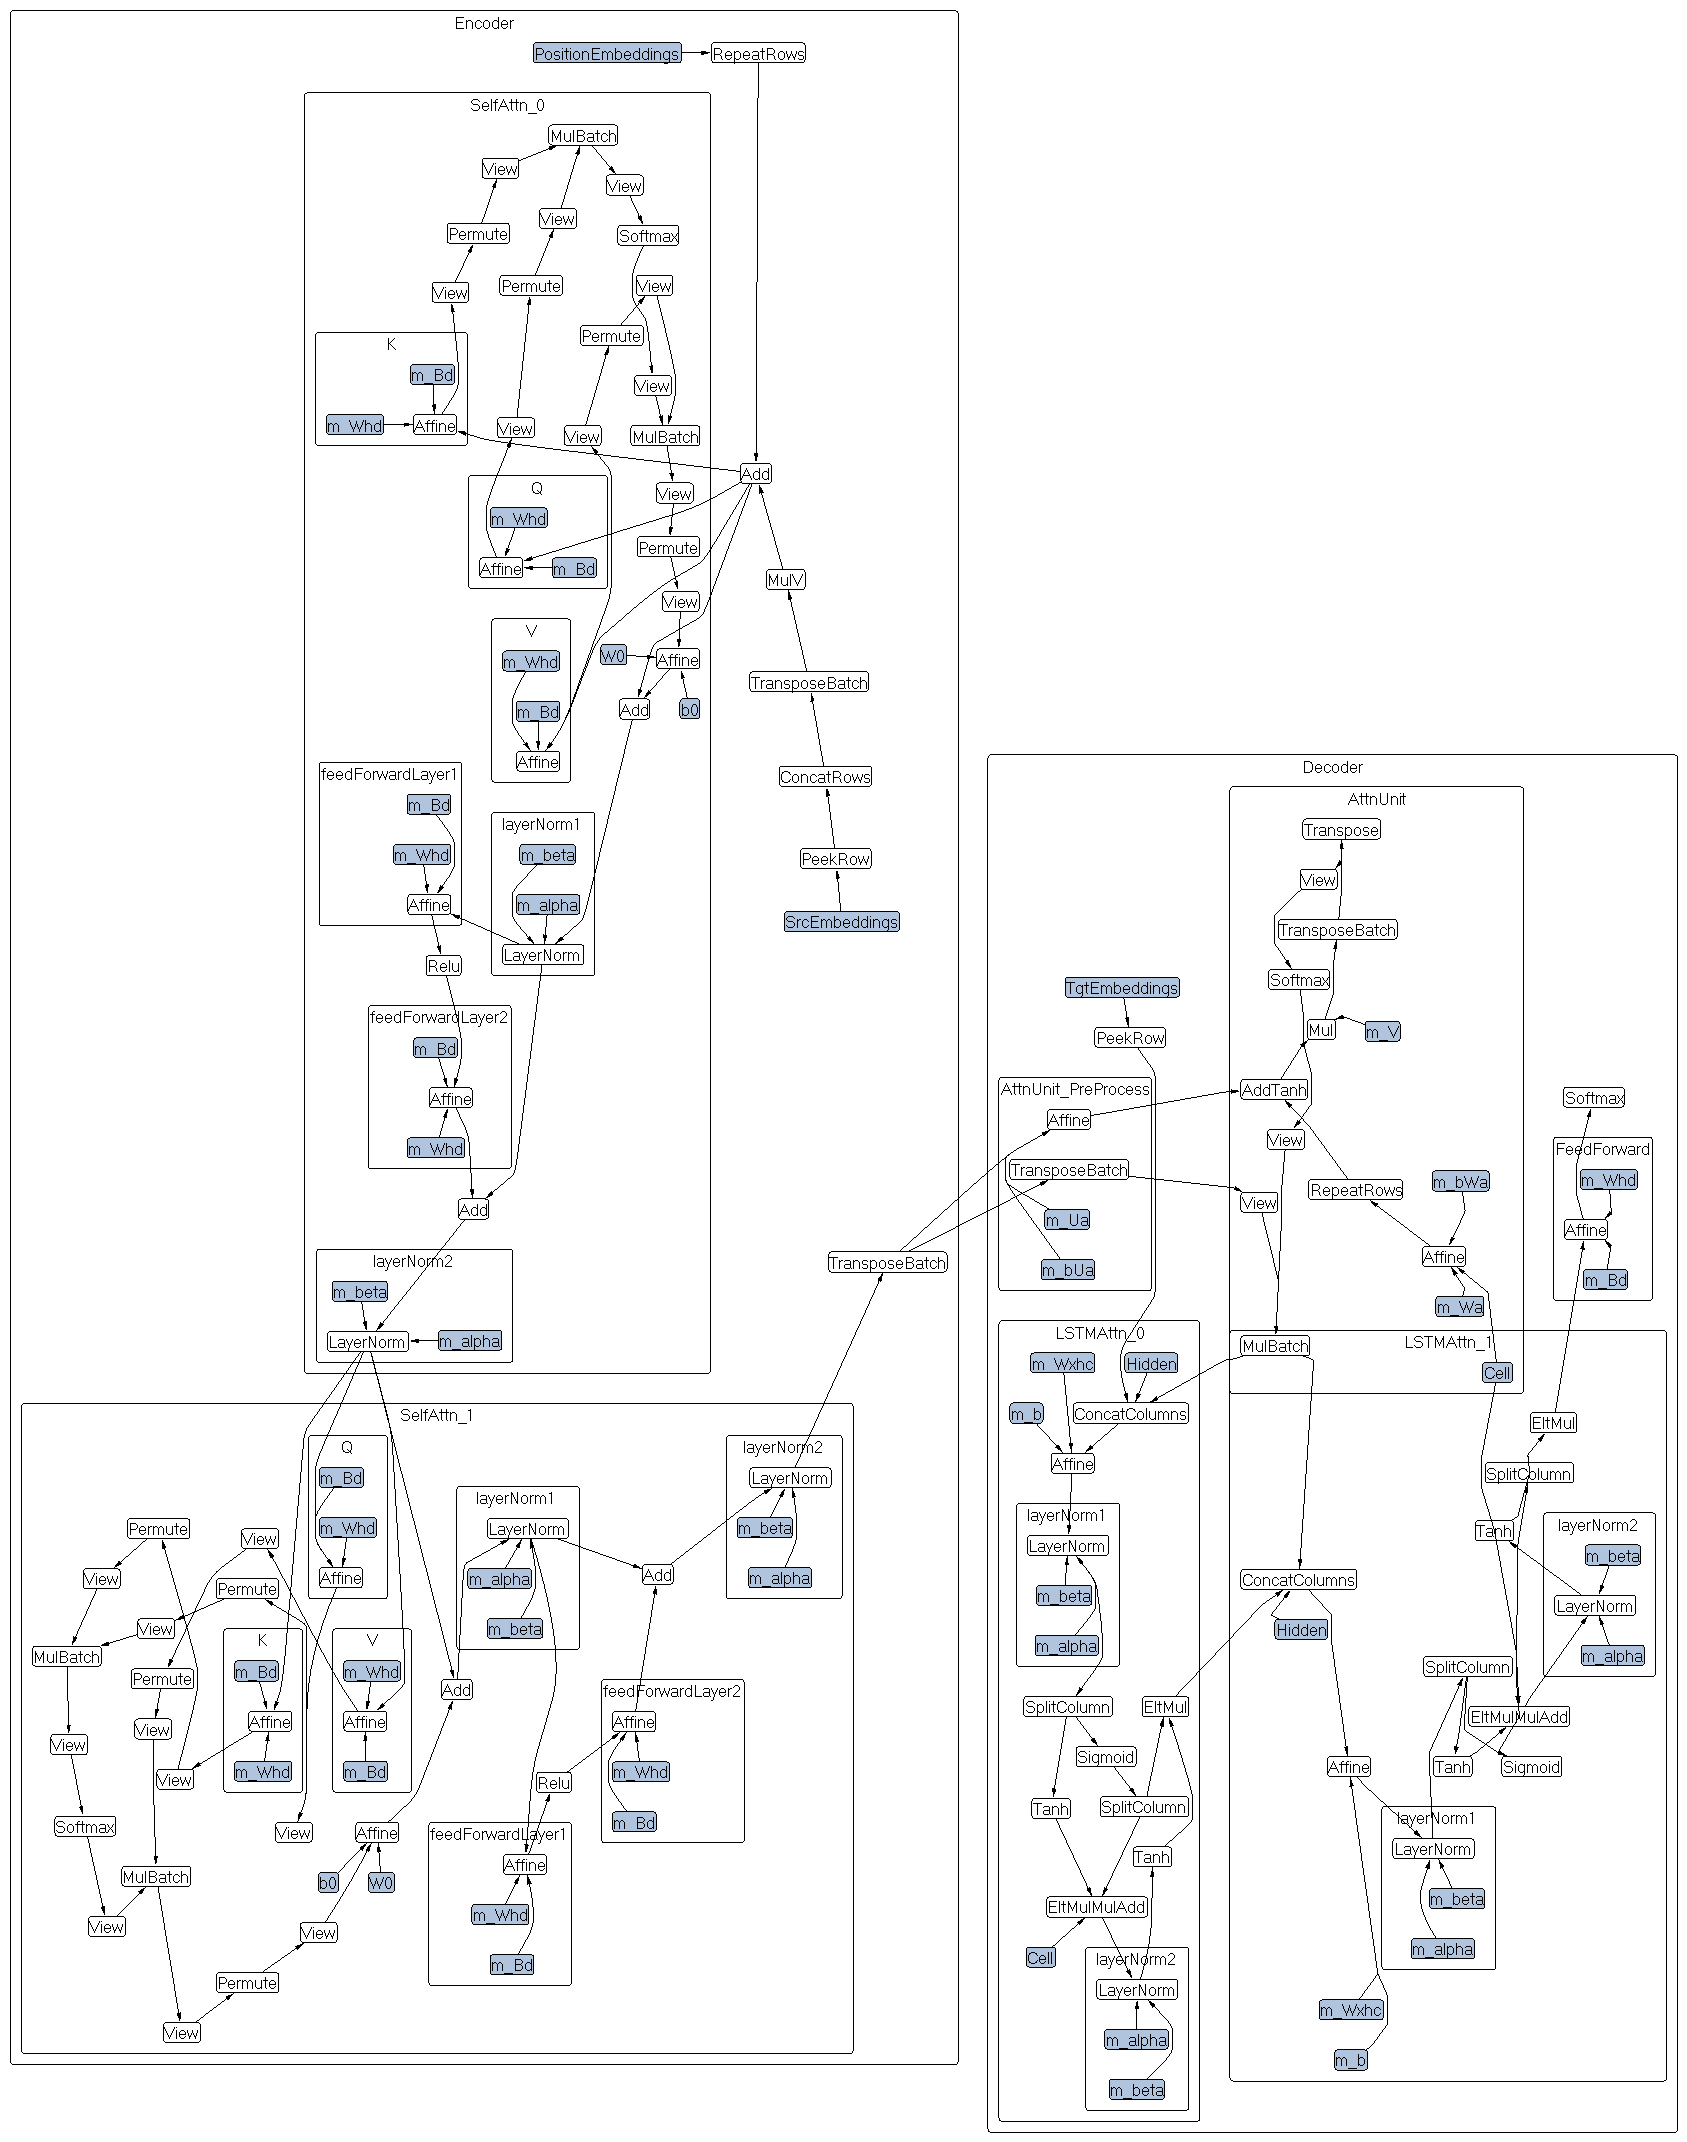
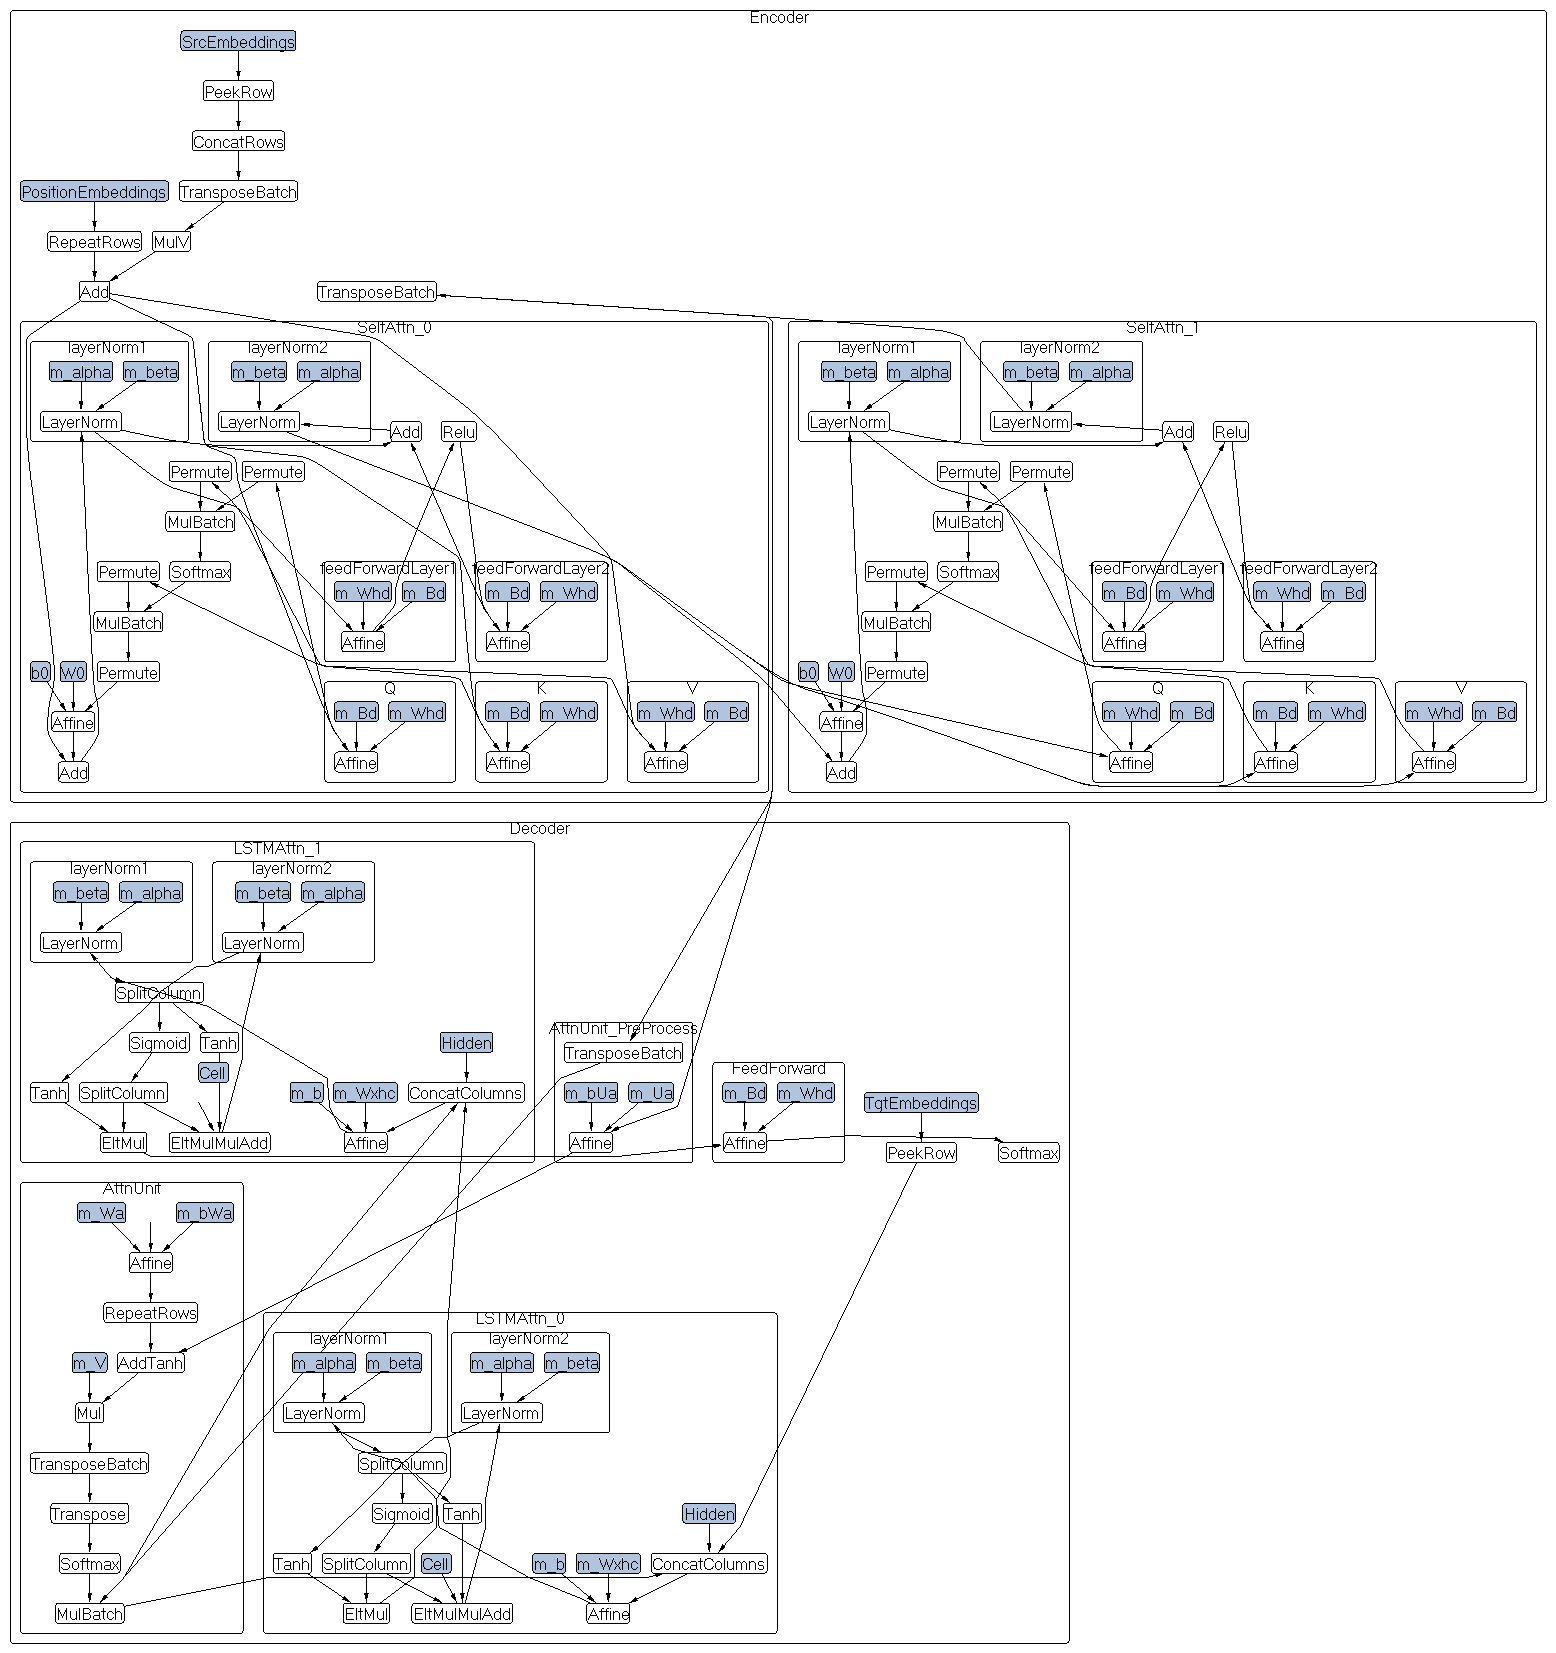
Minor updates

diff --git a/Seq2SeqSharp/Tools/ComputeGraphTensor.cs b/Seq2SeqSharp/Tools/ComputeGraphTensor.cs
@@ -1,5 +1,6 @@
 using Microsoft.Msagl.Drawing;
 using Microsoft.Msagl.Layout.Incremental;
+using Microsoft.Msagl.Layout.Layered;
 using System;
 using System.Collections.Generic;
 using System.Security.Cryptography;
@@ -678,10 +679,13 @@ namespace Seq2SeqSharp.Tools
 
         public void VisualizeNeuralNetToFile(string neuralNetPicFilePath)
         {
-            var settings = new FastIncrementalLayoutSettings();
-            settings.AvoidOverlaps = true;
-            settings.NodeSeparation = 30;
-            settings.RouteEdges = true;
+            var fastSettings = new FastIncrementalLayoutSettings();
+            fastSettings.AvoidOverlaps = true;
+            fastSettings.NodeSeparation = 30;
+            fastSettings.RouteEdges = true;
+
+            var settings = new SugiyamaLayoutSettings();
+            settings.FallbackLayoutSettings = fastSettings;
 
             m_opsViz.LayoutAlgorithmSettings = settings;
 
@@ -950,8 +954,8 @@ namespace Seq2SeqSharp.Tools
         public IWeightTensor View(IWeightTensor w, params long[] dims)
         {
             var m = w as WeightTensor;
-            WeightTensor res = m_weightTensorFactory.CreateWeightTensor(dims, m_deviceId, name: $"{GetHashString(w.Name)}.View");
-            VisualizeNodes(w, res);
+            WeightTensor res = m_weightTensorFactory.CreateWeightTensor(dims, m_deviceId, name: w.Name);
+          //  VisualizeNodes(w, res);
 
             res.TWeight = m.TWeight.View(dims);
             if (this.m_needsBackprop)
